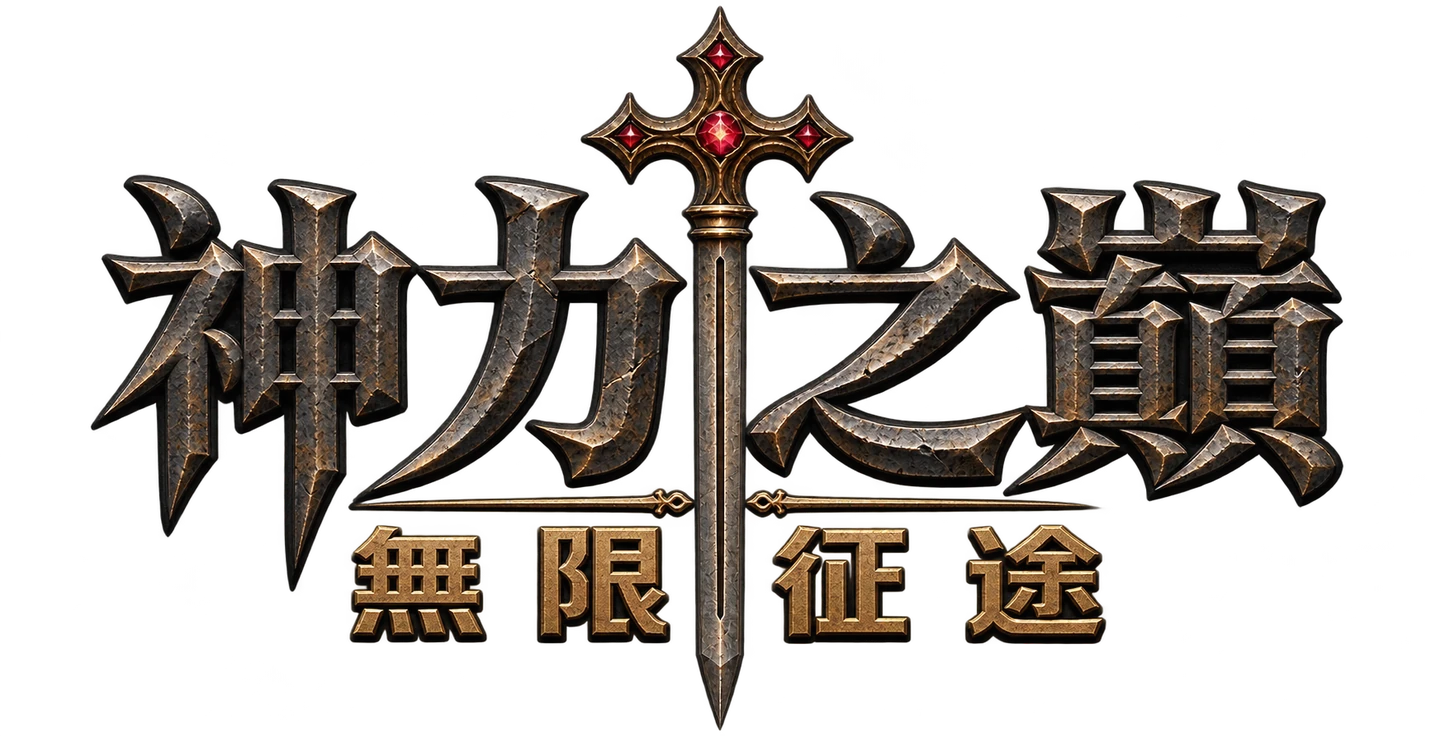
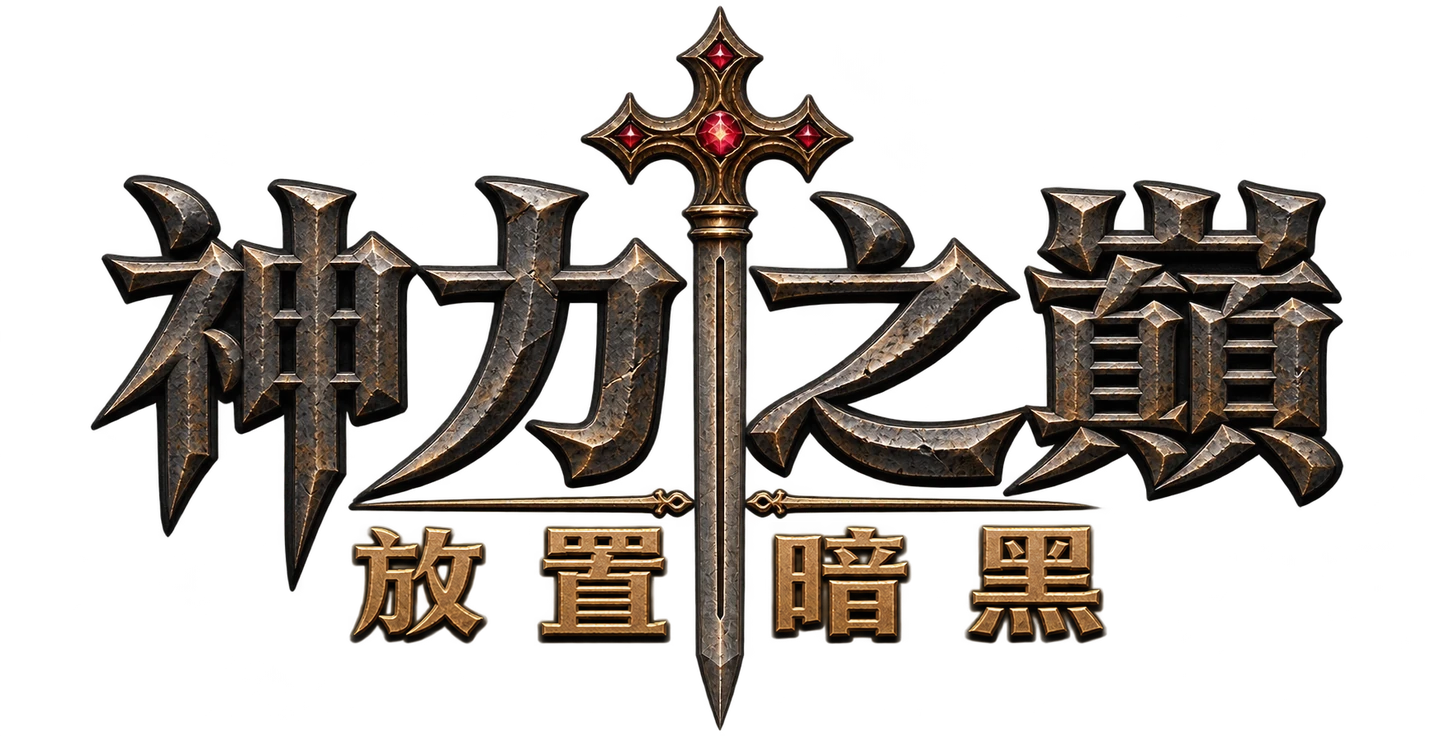
[Codex] feat: 保存放置暗黑副標題標誌

Changed region(s): [[0.5312, 0.6875, 0.7812, 0.875], [0.2188, 0.6875, 0.3438, 0.875], [0.375, 0.6875, 0.4688, 0.875]]

diff --git a/codex-authored/start-menu-wasteland-20261106/TITLE_SOURCE.md b/codex-authored/start-menu-wasteland-20261106/TITLE_SOURCE.md
@@ -1,6 +1,6 @@
 # 開始選單標誌
 
-遊戲目前使用 `title-lockup-forged.webp`（1440 × 736，透明 WebP）。內建 ImageGen 以原低光稿編修，保留「神力之巔」的尖銳字形及紅寶石直劍，換上磨損鍛鐵與氧化古銅。副標「無限征途」採厚實、拉開字距的暗金方字。原稿為 1754 × 896 RGBA PNG，以 Pillow 等比縮放並使用 WebP 品質 90、method 6 匯出。原稿、WebP 和完整提示詞 `ATMOSPHERE_PROMPTS.json` 存於 Effects-Materials 的 `codex-authored/start-menu-wasteland-20261106`，由 `node tools/intro/sync-start-menu.cjs --check` 核對。
+遊戲目前使用 `title-lockup-forged.webp`（1440 × 736，透明 WebP）。2026-11-13 以內建 ImageGen 編修原鍛鐵標誌的副標字樣。依原四個字位的可見邊界合成「放置暗黑」，匹配暗金方字的厚度、立體斜面、字距和基線。以既有 WebP 的解碼像素為底，四個副標字位以外的可見 RGBA 逐像素相同，輸出使用無損 WebP。初版鍛鐵原稿、編修稿及合成母圖保存於 Effects-Materials 的 `codex-authored/start-menu-wasteland-20261106/originals`，由 `node tools/intro/sync-start-menu.cjs --check` 核對。
 
 寶石中心為原稿約 (877, 164)，首頁的 CSS 暗紅呼吸光與圖面中心等比定位。替代文字沿用 String 表的遊戲全名。
 
@@ -31,4 +31,10 @@ A tightly framed, centered landscape logo with full sword tip and four character
 Use case: precise-object-edit. Edit Image 1, the existing finished Chinese dark-fantasy title lockup. Make just one local lighting adjustment. Reduce the visible pale steel-blue outer halo around the logo to approximately 55% of its present intensity (a 45% reduction), primarily by fading the semi-transparent pale blue light surrounding and between the letters and around the hilt. Make it quieter and more translucent so the underlying game environment will show through. Leave a subtle blue rim so it still separates from a warm brown background.
 
 Treat the existing artwork as the locked edit target. Preserve exactly the positions, silhouettes, spacing and relative scale of all glyphs and ornaments, the original dark steel faces, bright silver metallic bevel reflections, deep brown and black shading, warm bronze subtitle and divider, ruby-red crossguard, and the perfectly straight double-edged blade with a single straight fuller. Keep the exact Chinese text 神力之巔 and 無限征途, four characters each, without any addition or substitution. Keep the same wide canvas framing and fully intact point of the sword. Do not shrink or relocate the lockup within this file. Screen layout and 85% scale are applied separately in the game. Actual transparent RGBA, with no background, backing shape, matte, new effects, or scenery. The existing opaque metal and gemstones must remain crisp and fully visible.
+```
+
+## 副標替換提示詞
+
+```text
+Edit the provided transparent 1754×896 game title logo. Replace ONLY the four bronze characters of the SMALL bottom row: the text 無限征途 becomes exactly 放置暗黑 (traditional Chinese: 放, 置, 暗, 黑), with 放置 on the left of the sword and 暗黑 on the right. Match the original four glyph slots, baseline, roughly 165 by 145 pixel glyph bounding boxes, wide tracking, heavy square traditional serif-like carved display lettering, hammered antique gold face, precise gold bevel, and thin dark extrusion. Preserve the SAME large upper text 神力之巔, sword, rubies, gold separator rule, dimensions, positions and transparent alpha. The edited characters should fit exactly within the original subtitle region below the separator; no extra lettering or decorative elements. This is a literal subtitle replacement, no design changes.
 ```
